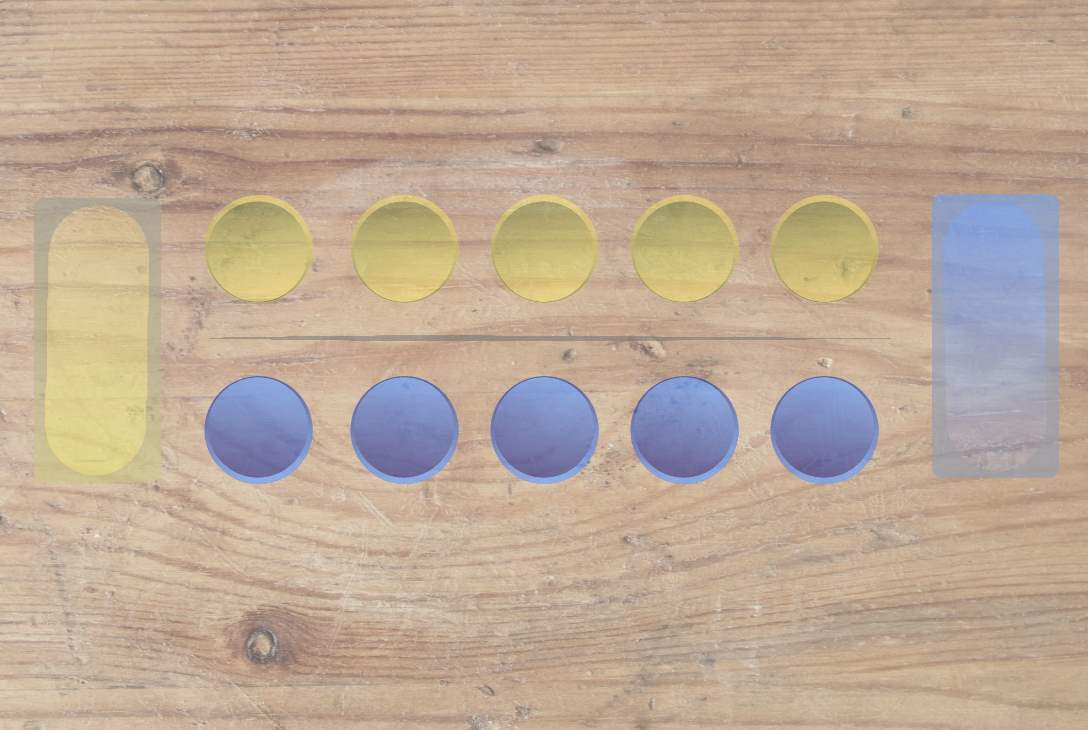
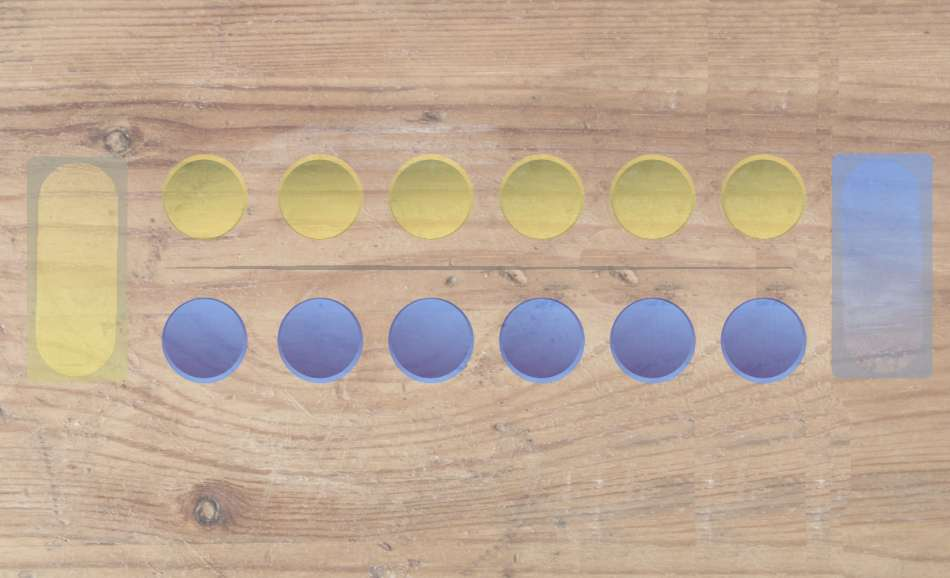
Avancée awalé, suppression partie->token

diff --git a/www/games/awale/awale.js b/www/games/awale/awale.js
@@ -1,5 +1,67 @@
 
 
+var awale = {
+	
+	init: function() {
+		awale.compartiments=[
+		               [0,0,0,0,0,0],
+		               [0,0,0,0,0,0]
+		               		];
+		
+		awale.refresh_haricots();
+		
+		$('.compartiment')
+			.click(function() {
+				var cs=$(this).attr('id').split('-');
+				
+				var line=cs[1];
+				var num=cs[2];
+				
+				awale.kik(line, num);
+			});
+	},
 
+
+	
+	setHaricot: function(joueur, num, qte) {
+		awale.compartiments[joueur][num]=qte;
+		awale.refresh_haricots(joueur, num);
+	},
+	
+	
+	displayHaricots: function(joueur, num) {
+		var qte=awale.compartiments[joueur][num];
+		
+		$('#compartiment-'+joueur+'-'+num+' .qte_txt').html(qte);
+		
+		qte=Math.min(qte, 10);
+		
+		if(qte>0) {
+			$('#compartiment-'+joueur+'-'+num).css({
+				backgroundPosition: -82*(qte-1)+'px 0'
+			});
+		} else {
+			$('#compartiment-'+joueur+'-'+num).css({
+				backgroundPosition: '0 500px'
+			});
+		}
+	},
+	
+	refresh_haricots: function() {
+		for(var i=0;i<2;i++) {
+			for(var j=0;j<6;j++) {
+				awale.displayHaricots(i, j);
+			}
+		}
+	},
+	
+	
+	kik: function(line, num) {
+		console.log(line+' '+num);
+	}
+	
+	
+	
+};
 
 

diff --git a/www/games/awale/awale.css b/www/games/awale/awale.css
@@ -1,3 +1,70 @@
 @CHARSET "ISO-8859-1";
 
+#body {
+	background: url(img/plateau.jpg) no-repeat 0 0;
+	height: 562px;
+}
+
+#containers {
+	margin-top: 146px;
+	margin-left: 16px;
+}
+
+
+.grenier {
+	display: inline-block;
+	width: 104px;
+	height: 228px;
+}
+
+
+#compartiments {
+	display: inline-block;
+	vertical-align: top;
+	width: 690px;
+}
+
+
+#compartiments .compartiments-line {
+	display: inline-block;
+	margin-left: 30px;
+}
+#compartiments .compartiments-line .compartiment:LAST-CHILD {
+	margin: 0;
+}
+#compartiments .compartiments-line .compartiment:FIRST-CHILD {
+	margin-right: 30px;
+}
+#compartiments #compartiments-0 {
+	margin-bottom: 58px;
+}
+
+#compartiments .compartiments-line .compartiment {
+	position: relative;
+	width: 82px;
+	height: 82px;
+	display: inline-block;
+	margin-right: 24px;
+	background-image: url(img/haricots.png);
+	background-repeat: no-repeat;
+	overflow: hidden;
+	cursor: pointer;
+}
+
+#compartiments .compartiments-line .compartiment p.qte_txt {
+	margin-left: 18px;
+	margin-top: 60px;
+	text-align: center;
+	width: 50px;
+	cursor: pointer;
+}
+
+
+
+
+
+
+
+
+
 

diff --git a/model/Partie.php b/model/Partie.php
@@ -209,17 +209,12 @@ class Partie extends DBItem {
 			$p->host=joueur()->getID();
 			$p->title=$title;
 			$p->etat=Partie::PREPARATION;
-			$p->token=self::genererToken();
 			$p->data=json_encode(jeu()->getInitialData());
 		$p->save();
 		
 		return $p;
 	}
 	
-	
-	public static function genererToken() {
-		return md5(rand().date('h-i-s:H-i-s'));
-	}
 	
 	
 	

diff --git a/model/DB.php b/model/DB.php
@@ -12,11 +12,13 @@ class DB_access extends PDO {
 	public static function getPDOInstance() {
 		if(DB_access::$instance==null) {
 			DB_access::$instance=new DB_access();
+			
+			// UTF8 :
+			DB_access::$instance->querySimple("SET NAMES 'UTF8'");
 		}
 		
 		return DB_access::$instance;
 	}
-	
 	
 	
 	public function onQuery($q) {

diff --git a/www/test.php b/www/test.php
@@ -2,4 +2,7 @@
 require_once '../config.php';
 require_once DIR_GAMES.'tictactoe/TicTacToe.php';
 
-print basename(__DIR__);
+print_r(queryTab('select * from jeu order by jeu_id desc limit 1'));
+
+$j=new DBItem('jeu', 2);
+print_r($j->title);

diff --git a/www/games/awale/Awale.php b/www/games/awale/Awale.php
@@ -11,7 +11,13 @@ class Awale extends Jeu {
 	
 	
 	public function getInitialData() {
+		$n=3;
+		$r->compartiments=array(
+								array($n,$n,$n,$n,$n,$n),
+								array($n,$n,$n,$n,$n,$n)
+								);
 		
+		return $r;
 	}
 	
 	

diff --git a/controllers/Index.php b/controllers/Index.php
@@ -5,7 +5,7 @@
 class Index extends Page {
 	
 	public function process() {
-		//$this->tictactoe_link=Appli::importClass('jeu:tictactoe')->getWWW();
+		
 	}
 	
 }
